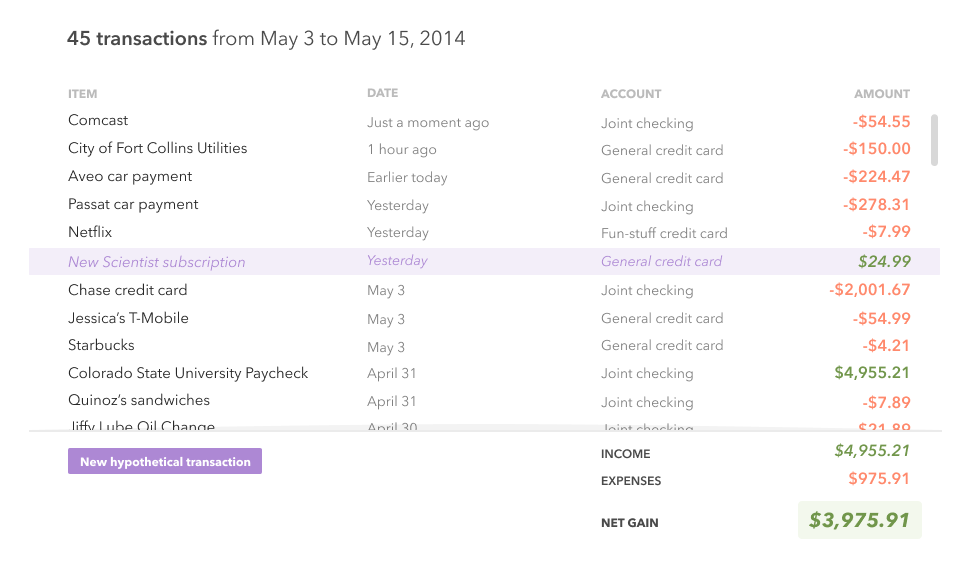
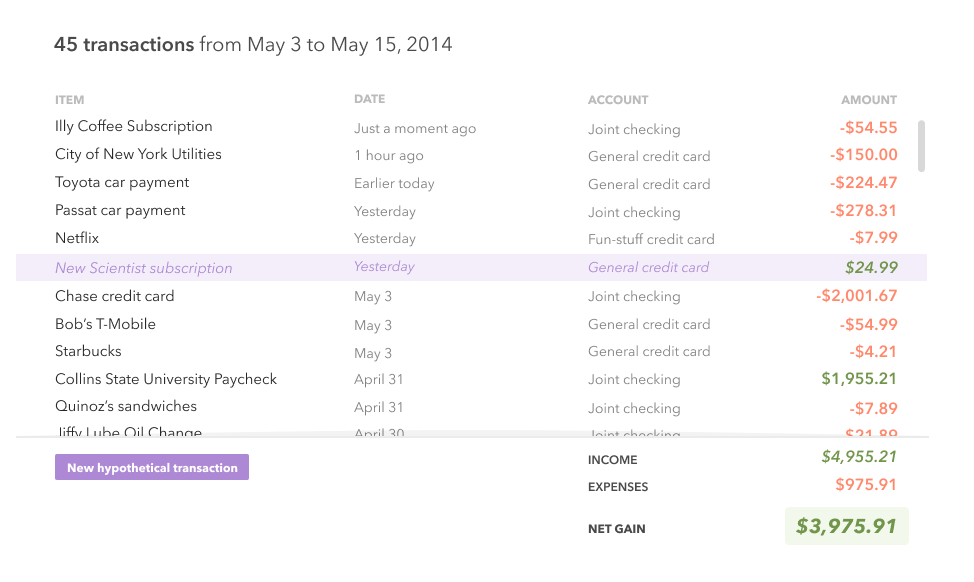
Anonymise Budgeting screenshots

diff --git a/site/src/routes/work/budgeting.svelte b/site/src/routes/work/budgeting.svelte
@@ -56,8 +56,8 @@
         <Carousel id="final" scrollOffset="30vh" height="50vw">
             <Image alt="" src="../../budgeting/overview.png" width="1460" height="830" />
             <div>
-                <Image alt="" src="../../budgeting/balance-over-time.png" width="960" height="325" />
-                <Image alt="" src="../../budgeting/transaction-histogram.png" width="960" height="237" />
+                <Image alt="" src="../../budgeting/balance-over-time.2x.png" width="960" height="325" />
+                <Image alt="" src="../../budgeting/transaction-histogram.2x.png" width="960" height="237" />
             </div>
             <Image alt="" src="../../budgeting/onboarding.png" width="1460" height="840" />
             <Image alt="" src="../../budgeting/income.png" width="1460" height="830" />
@@ -97,7 +97,6 @@
             started <strong>gray boxing</strong> in <strong>Adobe&nbsp;XD</strong>:
         </p>
         <Carousel height="30rem">
-            <Image alt="" src="../../budgeting/wireframes/overview.png" width="1460" height="840" />
             <Image alt="" src="../../budgeting/wireframes/bank-accounts.png" width="1460" height="840" />
             <Image alt="" src="../../budgeting/wireframes/savings.png" width="1460" height="840" />
             <Image alt="" src="../../budgeting/wireframes/savings-goals.png" width="1460" height="947" />
